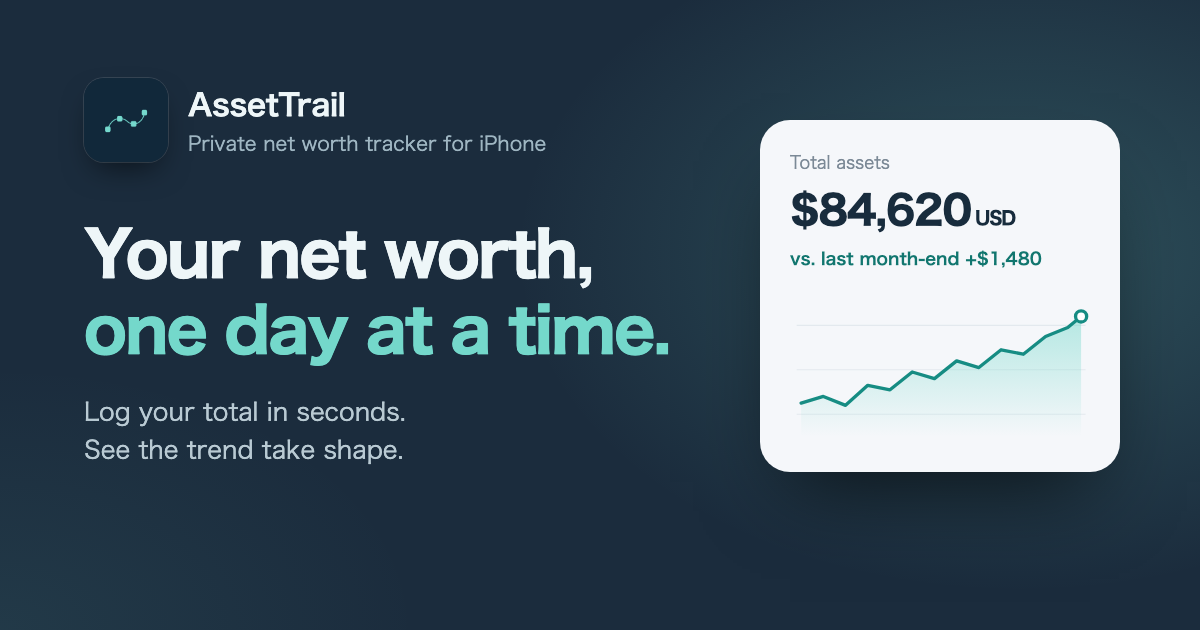
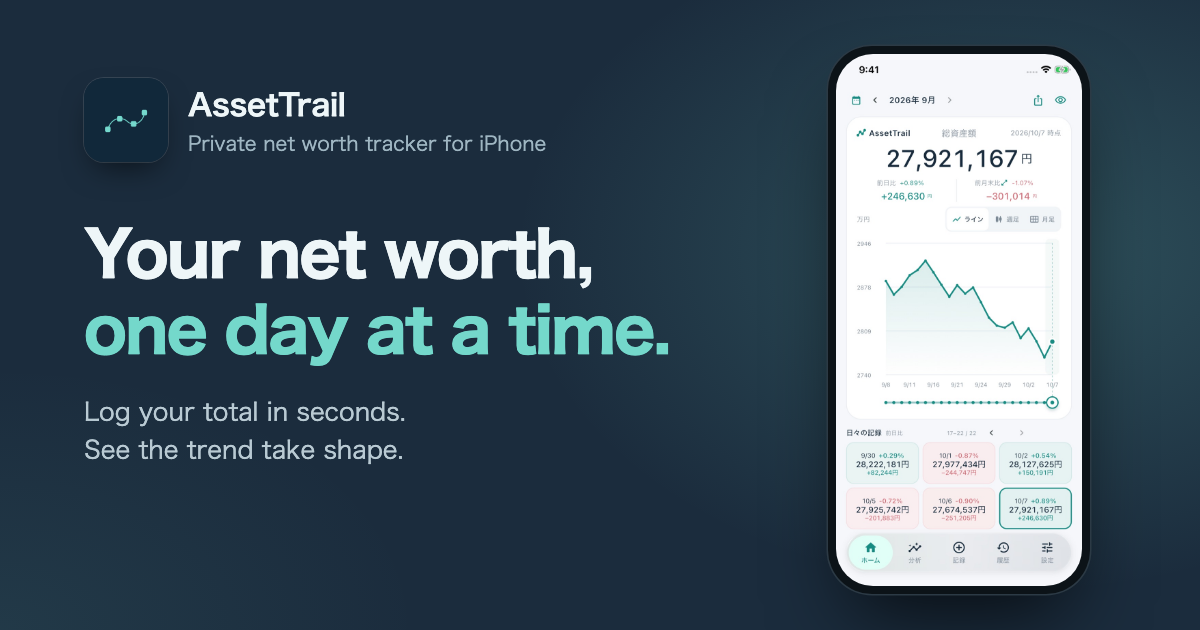
Use real app screenshots on AssetTrail landing pages
- Replace illustrated phone mockups with actual iPhone screenshots
  (line / weekly / monthly views, year-to-date, up & down days)
- Regenerate OGP images with the real home screen
- Mention year-to-date change in the insights feature
- Remove unused mockup styles

Changed region(s): [[0.6167, 0.0603, 0.9558, 0.9651]]

diff --git a/asset_trail/index.html b/asset_trail/index.html
@@ -87,28 +87,7 @@
         </div>
 
         <div class="stage">
-          <div class="phone" role="img" aria-label="AssetTrailのホーム画面イメージ。総資産額、前日比、資産推移のグラフ、日々の記録カードが表示されている">
-            <div class="screen" aria-hidden="true">
-              <div class="s-bar"><span class="s-title">AssetTrail</span><span class="s-icons"><i></i><i></i></span></div>
-              <div class="card">
-                <div class="label">総資産額 · 10月9日</div>
-                <div class="amount num">12,486,300<small>円</small></div>
-                <div class="delta"><span>前日比<b class="num">+32,400円</b></span><span>前月末比<b class="num">+214,800円</b></span></div>
-                <div class="seg"><span class="on">ライン</span><span>週足</span><span>月足</span></div>
-                <svg class="chart" viewBox="0 0 260 112" role="presentation">
-                  <defs><linearGradient id="ga" x1="0" y1="0" x2="0" y2="1"><stop offset="0" stop-color="#74d8cb" stop-opacity=".45"/><stop offset="1" stop-color="#74d8cb" stop-opacity="0"/></linearGradient></defs>
-                  <line class="grid" x1="0" y1="28" x2="260" y2="28"/><line class="grid" x1="0" y1="62" x2="260" y2="62"/><line class="grid" x1="0" y1="96" x2="260" y2="96"/>
-                  <path d="M4 86 L24 80 L44 88 L64 72 L84 76 L104 62 L124 68 L144 54 L164 60 L184 46 L204 50 L224 36 L244 30 L256 22 L256 112 L4 112 Z" fill="url(#ga)"/>
-                  <path class="line" d="M4 86 L24 80 L44 88 L64 72 L84 76 L104 62 L124 68 L144 54 L164 60 L184 46 L204 50 L224 36 L244 30 L256 22"/>
-                  <circle class="dot" cx="256" cy="22" r="4"/>
-                </svg>
-              </div>
-              <div class="rows" style="margin-top:10px">
-                <div class="mini">10/9（木）<b class="num">12,486,300円</b><em class="num">+32,400</em></div>
-                <div class="mini">10/8（水）<b class="num">12,453,900円</b><em class="num">+18,100</em></div>
-              </div>
-            </div>
-          </div>
+          <div class="phone"><img class="shot" src="./images/screens/home-line.jpg" width="720" height="1558" alt="AssetTrailのホーム画面。総資産額と前日比・前月末比、資産推移のライングラフ、日々の記録カードが表示されている" fetchpriority="high" /></div>
         </div>
       </div>
     </section>
@@ -151,7 +130,7 @@
           <article class="feature">
             <span class="ic" aria-hidden="true"><svg viewBox="0 0 24 24" fill="none" stroke="currentColor" stroke-width="2" stroke-linecap="round" stroke-linejoin="round"><path d="M4 20V10M10 20V4M16 20v-7M22 20H2"/></svg></span>
             <h3>分析 <span class="tag">一部Plus</span></h3>
-            <p>下落幅、プラス・マイナスの日数、月別の増減、入出金を除いた増減を表示します。</p>
+            <p>年初来の増減、下落幅、プラス・マイナスの日数、月別の増減、入出金を除いた増減を表示します。</p>
           </article>
           <article class="feature">
             <span class="ic" aria-hidden="true"><svg viewBox="0 0 24 24" fill="none" stroke="currentColor" stroke-width="2" stroke-linecap="round" stroke-linejoin="round"><path d="M3 3l18 18"/><path d="M10.6 5.1A10 10 0 0 1 12 5c5 0 9 4.5 10 7a13 13 0 0 1-2.6 3.6M6.6 6.6A13 13 0 0 0 2 12c1 2.5 5 7 10 7a9.8 9.8 0 0 0 5.4-1.6"/><path d="M9.9 9.9a3 3 0 0 0 4.2 4.2"/></svg></span>
@@ -215,77 +194,37 @@
         <ul class="gallery">
           <li>
             <figure>
-              <div class="phone" role="img" aria-label="ホーム画面イメージ：総資産額と週足のグラフ">
-                <div class="screen" aria-hidden="true">
-                  <div class="s-bar"><span class="s-title">ホーム</span><span class="s-icons"><i></i></span></div>
-                  <div class="card">
-                    <div class="label">総資産額</div>
-                    <div class="amount num">12,486,300<small>円</small></div>
-                    <div class="delta"><span>前週比<b class="num">+96,200円</b></span></div>
-                    <div class="seg"><span>ライン</span><span class="on">週足</span><span>月足</span></div>
-                    <svg class="chart" viewBox="0 0 220 120" role="presentation">
-                      <line class="grid" x1="0" y1="30" x2="220" y2="30"/><line class="grid" x1="0" y1="70" x2="220" y2="70"/><line class="grid" x1="0" y1="110" x2="220" y2="110"/>
-                      <g fill="#74d8cb" stroke="#168c83" stroke-width="1.5">
-                        <line x1="18" y1="70" x2="18" y2="104" /><rect x="11" y="78" width="14" height="20" rx="2"/>
-                        <line x1="52" y1="62" x2="52" y2="96" /><rect x="45" y="68" width="14" height="22" rx="2"/>
-                      </g>
-                      <g fill="#ff929e" stroke="#c4555f" stroke-width="1.5"><line x1="86" y1="60" x2="86" y2="92" /><rect x="79" y="66" width="14" height="18" rx="2"/></g>
-                      <g fill="#74d8cb" stroke="#168c83" stroke-width="1.5">
-                        <line x1="120" y1="44" x2="120" y2="86" /><rect x="113" y="52" width="14" height="28" rx="2"/>
-                        <line x1="154" y1="34" x2="154" y2="64" /><rect x="147" y="40" width="14" height="18" rx="2"/>
-                        <line x1="188" y1="16" x2="188" y2="50" /><rect x="181" y="22" width="14" height="22" rx="2"/>
-                      </g>
-                    </svg>
-                  </div>
-                  <div class="card"><div class="label">10/6 – 10/9</div><b class="num" style="font-size:14px">12,486,300円</b> <span class="num" style="color:var(--teal);font-weight:650">+96,200</span></div>
-                </div>
-              </div>
-              <figcaption><strong>ホーム</strong><span>資産額と推移をひと目で</span></figcaption>
+              <div class="phone"><img class="shot" src="./images/screens/home-line.jpg" width="720" height="1558" alt="ホーム画面のライン表示。総資産額と、日ごとの資産推移のグラフ、日々の記録カード" loading="lazy" decoding="async" /></div>
+              <figcaption><strong>ライン</strong><span>日々の推移を、なめらかな線で</span></figcaption>
             </figure>
           </li>
           <li>
             <figure>
-              <div class="phone" role="img" aria-label="分析画面イメージ：月別の増減バーと、プラス・マイナスの日数の円グラフ">
-                <div class="screen" aria-hidden="true">
-                  <div class="s-bar"><span class="s-title">分析</span></div>
-                  <div class="card">
-                    <div class="label">月別の増減</div>
-                    <div class="bars-wrap"><div class="bars"><span style="height:24px"></span><span style="height:36px"></span><span class="neg" style="height:18px"></span><span style="height:30px"></span><span style="height:42px"></span><span class="neg" style="height:10px"></span><span style="height:28px"></span></div></div>
-                  </div>
-                  <div class="card">
-                    <div class="label" style="margin-bottom:8px">増減の日数</div>
-                    <div class="donut">
-                      <svg viewBox="0 0 42 42"><circle cx="21" cy="21" r="15.9" fill="none" stroke="var(--raised)" stroke-width="6"/><circle cx="21" cy="21" r="15.9" fill="none" stroke="#168c83" stroke-width="6" stroke-dasharray="60 40" stroke-dashoffset="25"/><circle cx="21" cy="21" r="15.9" fill="none" stroke="#e58b94" stroke-width="6" stroke-dasharray="30 70" stroke-dashoffset="65"/></svg>
-                      <div class="legend"><span><i style="background:#168c83"></i>プラス <b>18日</b></span><span><i style="background:#e58b94"></i>マイナス <b>9日</b></span><span><i style="background:var(--border)"></i>変化なし <b>3日</b></span></div>
-                    </div>
-                  </div>
-                  <div class="card"><div class="label">最大下落幅</div><b class="num" style="font-size:18px;color:var(--negative)">-4.2%</b></div>
-                </div>
-              </div>
-              <figcaption><strong>分析</strong><span>月ごとの増減や下落幅を確認</span></figcaption>
+              <div class="phone"><img class="shot" src="./images/screens/home-weekly.jpg" width="720" height="1558" alt="ホーム画面の週足表示。週ごとのローソク足チャートと、前週比つきの週ごとの記録" loading="lazy" decoding="async" /></div>
+              <figcaption><strong>週足</strong><span>週ごとの値動きをローソク足で</span></figcaption>
             </figure>
           </li>
           <li>
             <figure>
-              <div class="phone" role="img" aria-label="記録画面イメージ：日付、資産額、入出金、メモを入力して保存するシート">
-                <div class="screen" aria-hidden="true" style="background:var(--bg-alt)">
-                  <div class="card" style="margin-top:40px;border-radius:22px">
-                    <div class="sheet-handle"></div>
-                    <div style="font-weight:800;font-size:15px;margin-bottom:10px">記録</div>
-                    <div class="field"><div class="label">日付</div><div class="v">2026年10月9日</div></div>
-                    <div class="field"><div class="label">資産額</div><div class="v num">12,486,300 円</div></div>
-                    <div class="field"><div class="label">入出金</div><div class="toggle"><span class="on">入金</span><span>出金</span></div><div class="v num" style="margin-top:6px">50,000 円</div></div>
-                    <div class="field"><div class="label">メモ</div><div class="v" style="font-weight:500;font-size:13px">積立を追加</div></div>
-                    <div class="save">保存</div>
-                  </div>
-                </div>
-              </div>
-              <figcaption><strong>記録</strong><span>資産額を入れて保存するだけ</span></figcaption>
+              <div class="phone"><img class="shot" src="./images/screens/home-monthly.jpg" width="720" height="1558" alt="ホーム画面の月足表示。直近1年の月ごとのローソク足チャートと、前月比つきの月ごとの記録" loading="lazy" decoding="async" /></div>
+              <figcaption><strong>月足 <span class="tag">Plus</span></strong><span>1年の流れを月単位で</span></figcaption>
+            </figure>
+          </li>
+          <li>
+            <figure>
+              <div class="phone"><img class="shot" src="./images/screens/analysis-ytd.jpg" width="720" height="1558" alt="分析画面の年初来パフォーマンス。年初からの資産額の変化を金額・比率・グラフで表示" loading="lazy" decoding="async" /></div>
+              <figcaption><strong>年初来パフォーマンス</strong><span>年初からの増減を金額と比率で</span></figcaption>
+            </figure>
+          </li>
+          <li>
+            <figure>
+              <div class="phone"><img class="shot" src="./images/screens/analysis-days.jpg" width="720" height="1558" alt="分析画面のプラス・マイナス日数。増減日数の円グラフと、日ごとの増減を色分けしたカレンダー" loading="lazy" decoding="async" /></div>
+              <figcaption><strong>プラス・マイナス日数 <span class="tag">Plus</span></strong><span>増減の日数をカレンダーでも</span></figcaption>
             </figure>
           </li>
         </ul>
         <p class="swipe-hint">← 横にスワイプ →</p>
-        <p class="footnote">※ 画面はイメージです。金額はサンプルです。</p>
+        <p class="footnote">※ 実際のアプリ画面です（iPhone）。</p>
       </div>
     </section>
 

diff --git a/asset_trail/en/index.html b/asset_trail/en/index.html
@@ -87,28 +87,7 @@
         </div>
 
         <div class="stage">
-          <div class="phone" role="img" aria-label="AssetTrail home screen preview showing total assets, daily change, a trend chart, and recent entries">
-            <div class="screen" aria-hidden="true">
-              <div class="s-bar"><span class="s-title">AssetTrail</span><span class="s-icons"><i></i><i></i></span></div>
-              <div class="card">
-                <div class="label">Total assets · Oct 9</div>
-                <div class="amount num">$84,620<small>USD</small></div>
-                <div class="delta"><span>vs. yesterday<b class="num">+$310</b></span><span>vs. last month-end<b class="num">+$1,480</b></span></div>
-                <div class="seg"><span class="on">Line</span><span>Weekly</span><span>Monthly</span></div>
-                <svg class="chart" viewBox="0 0 260 112" role="presentation">
-                  <defs><linearGradient id="ga" x1="0" y1="0" x2="0" y2="1"><stop offset="0" stop-color="#74d8cb" stop-opacity=".45"/><stop offset="1" stop-color="#74d8cb" stop-opacity="0"/></linearGradient></defs>
-                  <line class="grid" x1="0" y1="28" x2="260" y2="28"/><line class="grid" x1="0" y1="62" x2="260" y2="62"/><line class="grid" x1="0" y1="96" x2="260" y2="96"/>
-                  <path d="M4 86 L24 80 L44 88 L64 72 L84 76 L104 62 L124 68 L144 54 L164 60 L184 46 L204 50 L224 36 L244 30 L256 22 L256 112 L4 112 Z" fill="url(#ga)"/>
-                  <path class="line" d="M4 86 L24 80 L44 88 L64 72 L84 76 L104 62 L124 68 L144 54 L164 60 L184 46 L204 50 L224 36 L244 30 L256 22"/>
-                  <circle class="dot" cx="256" cy="22" r="4"/>
-                </svg>
-              </div>
-              <div class="rows" style="margin-top:10px">
-                <div class="mini">Thu, Oct 9<b class="num">$84,620</b><em class="num">+$310</em></div>
-                <div class="mini">Wed, Oct 8<b class="num">$84,310</b><em class="num">+$145</em></div>
-              </div>
-            </div>
-          </div>
+          <div class="phone"><img class="shot" src="../images/screens/home-line.jpg" width="720" height="1558" alt="AssetTrail home screen showing total assets, day-over-day and month-end changes, a line chart of the asset trend, and daily entry cards" fetchpriority="high" /></div>
         </div>
       </div>
     </section>
@@ -151,7 +130,7 @@
           <article class="feature">
             <span class="ic" aria-hidden="true"><svg viewBox="0 0 24 24" fill="none" stroke="currentColor" stroke-width="2" stroke-linecap="round" stroke-linejoin="round"><path d="M4 20V10M10 20V4M16 20v-7M22 20H2"/></svg></span>
             <h3>Insights <span class="tag">Some Plus</span></h3>
-            <p>Drawdowns, up and down days, monthly changes, and changes excluding deposits and withdrawals.</p>
+            <p>Year-to-date change, drawdowns, up and down days, monthly changes, and changes excluding deposits and withdrawals.</p>
           </article>
           <article class="feature">
             <span class="ic" aria-hidden="true"><svg viewBox="0 0 24 24" fill="none" stroke="currentColor" stroke-width="2" stroke-linecap="round" stroke-linejoin="round"><path d="M3 3l18 18"/><path d="M10.6 5.1A10 10 0 0 1 12 5c5 0 9 4.5 10 7a13 13 0 0 1-2.6 3.6M6.6 6.6A13 13 0 0 0 2 12c1 2.5 5 7 10 7a9.8 9.8 0 0 0 5.4-1.6"/><path d="M9.9 9.9a3 3 0 0 0 4.2 4.2"/></svg></span>
@@ -215,77 +194,37 @@
         <ul class="gallery">
           <li>
             <figure>
-              <div class="phone" role="img" aria-label="Home screen preview: total assets with a weekly chart">
-                <div class="screen" aria-hidden="true">
-                  <div class="s-bar"><span class="s-title">Home</span><span class="s-icons"><i></i></span></div>
-                  <div class="card">
-                    <div class="label">Total assets</div>
-                    <div class="amount num">$84,620<small>USD</small></div>
-                    <div class="delta"><span>vs. last week<b class="num">+$720</b></span></div>
-                    <div class="seg"><span>Line</span><span class="on">Weekly</span><span>Monthly</span></div>
-                    <svg class="chart" viewBox="0 0 220 120" role="presentation">
-                      <line class="grid" x1="0" y1="30" x2="220" y2="30"/><line class="grid" x1="0" y1="70" x2="220" y2="70"/><line class="grid" x1="0" y1="110" x2="220" y2="110"/>
-                      <g fill="#74d8cb" stroke="#168c83" stroke-width="1.5">
-                        <line x1="18" y1="70" x2="18" y2="104" /><rect x="11" y="78" width="14" height="20" rx="2"/>
-                        <line x1="52" y1="62" x2="52" y2="96" /><rect x="45" y="68" width="14" height="22" rx="2"/>
-                      </g>
-                      <g fill="#ff929e" stroke="#c4555f" stroke-width="1.5"><line x1="86" y1="60" x2="86" y2="92" /><rect x="79" y="66" width="14" height="18" rx="2"/></g>
-                      <g fill="#74d8cb" stroke="#168c83" stroke-width="1.5">
-                        <line x1="120" y1="44" x2="120" y2="86" /><rect x="113" y="52" width="14" height="28" rx="2"/>
-                        <line x1="154" y1="34" x2="154" y2="64" /><rect x="147" y="40" width="14" height="18" rx="2"/>
-                        <line x1="188" y1="16" x2="188" y2="50" /><rect x="181" y="22" width="14" height="22" rx="2"/>
-                      </g>
-                    </svg>
-                  </div>
-                  <div class="card"><div class="label">Oct 6 – Oct 9</div><b class="num" style="font-size:14px">$84,620</b> <span class="num" style="color:var(--teal);font-weight:650">+$720</span></div>
-                </div>
-              </div>
-              <figcaption><strong>Home</strong><span>Your total and trend at a glance</span></figcaption>
+              <div class="phone"><img class="shot" src="../images/screens/home-line.jpg" width="720" height="1558" alt="Home screen in line view: total assets, a daily trend chart, and daily entry cards" loading="lazy" decoding="async" /></div>
+              <figcaption><strong>Line</strong><span>Your daily trend as a smooth line</span></figcaption>
             </figure>
           </li>
           <li>
             <figure>
-              <div class="phone" role="img" aria-label="Insights screen preview: monthly change bars and a chart of up and down days">
-                <div class="screen" aria-hidden="true">
-                  <div class="s-bar"><span class="s-title">Insights</span></div>
-                  <div class="card">
-                    <div class="label">Monthly change</div>
-                    <div class="bars-wrap"><div class="bars"><span style="height:24px"></span><span style="height:36px"></span><span class="neg" style="height:18px"></span><span style="height:30px"></span><span style="height:42px"></span><span class="neg" style="height:10px"></span><span style="height:28px"></span></div></div>
-                  </div>
-                  <div class="card">
-                    <div class="label" style="margin-bottom:8px">Up &amp; down days</div>
-                    <div class="donut">
-                      <svg viewBox="0 0 42 42"><circle cx="21" cy="21" r="15.9" fill="none" stroke="var(--raised)" stroke-width="6"/><circle cx="21" cy="21" r="15.9" fill="none" stroke="#168c83" stroke-width="6" stroke-dasharray="60 40" stroke-dashoffset="25"/><circle cx="21" cy="21" r="15.9" fill="none" stroke="#e58b94" stroke-width="6" stroke-dasharray="30 70" stroke-dashoffset="65"/></svg>
-                      <div class="legend"><span><i style="background:#168c83"></i>Up <b>18 days</b></span><span><i style="background:#e58b94"></i>Down <b>9 days</b></span><span><i style="background:var(--border)"></i>Flat <b>3 days</b></span></div>
-                    </div>
-                  </div>
-                  <div class="card"><div class="label">Max drawdown</div><b class="num" style="font-size:18px;color:var(--negative)">-4.2%</b></div>
-                </div>
-              </div>
-              <figcaption><strong>Insights</strong><span>Monthly changes and drawdowns</span></figcaption>
+              <div class="phone"><img class="shot" src="../images/screens/home-weekly.jpg" width="720" height="1558" alt="Home screen in weekly view: weekly candlestick chart and weekly entries with week-over-week change" loading="lazy" decoding="async" /></div>
+              <figcaption><strong>Weekly</strong><span>Week-by-week moves as candlesticks</span></figcaption>
             </figure>
           </li>
           <li>
             <figure>
-              <div class="phone" role="img" aria-label="New entry screen preview: a sheet for date, total assets, cash flow, and a note">
-                <div class="screen" aria-hidden="true" style="background:var(--bg-alt)">
-                  <div class="card" style="margin-top:40px;border-radius:22px">
-                    <div class="sheet-handle"></div>
-                    <div style="font-weight:800;font-size:15px;margin-bottom:10px">New entry</div>
-                    <div class="field"><div class="label">Date</div><div class="v">Oct 9, 2026</div></div>
-                    <div class="field"><div class="label">Total assets</div><div class="v num">$84,620</div></div>
-                    <div class="field"><div class="label">Cash flow</div><div class="toggle"><span class="on">Deposit</span><span>Withdrawal</span></div><div class="v num" style="margin-top:6px">$500</div></div>
-                    <div class="field"><div class="label">Note</div><div class="v" style="font-weight:500;font-size:13px">Monthly contribution</div></div>
-                    <div class="save">Save</div>
-                  </div>
-                </div>
-              </div>
-              <figcaption><strong>New entry</strong><span>Enter your total and you're done</span></figcaption>
+              <div class="phone"><img class="shot" src="../images/screens/home-monthly.jpg" width="720" height="1558" alt="Home screen in monthly view: monthly candlestick chart for the past year and monthly entries" loading="lazy" decoding="async" /></div>
+              <figcaption><strong>Monthly <span class="tag">Plus</span></strong><span>A full year at a glance</span></figcaption>
+            </figure>
+          </li>
+          <li>
+            <figure>
+              <div class="phone"><img class="shot" src="../images/screens/analysis-ytd.jpg" width="720" height="1558" alt="Insights screen: year-to-date change in amount and percentage, with a chart" loading="lazy" decoding="async" /></div>
+              <figcaption><strong>Year to date</strong><span>Your change since January 1</span></figcaption>
+            </figure>
+          </li>
+          <li>
+            <figure>
+              <div class="phone"><img class="shot" src="../images/screens/analysis-days.jpg" width="720" height="1558" alt="Insights screen: donut chart of up and down days and a color-coded calendar of daily changes" loading="lazy" decoding="async" /></div>
+              <figcaption><strong>Up & down days <span class="tag">Plus</span></strong><span>Plus a color-coded calendar</span></figcaption>
             </figure>
           </li>
         </ul>
         <p class="swipe-hint">← Swipe to see more →</p>
-        <p class="footnote">Screens are illustrative. Amounts are sample data.</p>
+        <p class="footnote">Real app screens on iPhone, shown in Japanese. The app is fully available in English, too.</p>
       </div>
     </section>
 

diff --git a/asset_trail/lp.css b/asset_trail/lp.css
@@ -119,43 +119,11 @@ a:focus-visible, button:focus-visible {
   filter: blur(10px);
 }
 .phone {
-  position: relative; width: 292px; flex: none;
-  padding: 10px; border-radius: 48px;
+  position: relative; width: 280px; flex: none;
+  padding: 8px; border-radius: 46px;
   background: #0c1318; box-shadow: var(--shadow), inset 0 0 0 1.5px #2c3a45;
 }
-.screen {
-  position: relative; overflow: hidden; border-radius: 39px;
-  background: var(--bg); color: var(--ink);
-  padding: 46px 16px 22px;
-  font-size: 12px; line-height: 1.45;
-}
-.screen::before {
-  content: ""; position: absolute; top: 11px; left: 50%; width: 86px; height: 25px;
-  transform: translateX(-50%); border-radius: 20px; background: #0c1318;
-}
-.s-bar { display: flex; align-items: center; justify-content: space-between; margin-bottom: 12px; }
-.s-title { font-size: 17px; font-weight: 800; letter-spacing: -.02em; }
-.s-icons { display: flex; gap: 8px; color: var(--teal-strong); }
-.s-icons i { display: block; width: 18px; height: 18px; border-radius: 6px; background: var(--teal-soft); }
-.card { padding: 14px; border-radius: 18px; background: var(--surface); border: 1px solid var(--border); }
-.card + .card { margin-top: 10px; }
-.label { color: var(--subtle); font-size: 11px; }
-.amount { margin-top: 2px; font-size: 25px; font-weight: 750; letter-spacing: -.03em; line-height: 1.2; }
-.amount small { font-size: 12px; font-weight: 650; margin-left: 2px; }
-.delta { display: flex; gap: 14px; margin-top: 8px; font-size: 11px; color: var(--subtle); }
-.delta b { display: block; color: var(--teal); font-size: 13px; }
-.delta b.neg { color: var(--negative); }
-.seg { display: flex; gap: 3px; margin: 12px 0 8px; padding: 3px; border-radius: 10px; background: var(--raised); font-size: 11px; font-weight: 650; text-align: center; color: var(--subtle); }
-.seg span { flex: 1; padding: 4px 0; border-radius: 8px; }
-.seg .on { background: var(--surface); color: var(--ink); box-shadow: 0 1px 2px rgba(0,0,0,.1); }
-.chart { width: 100%; height: auto; }
-.chart .line { fill: none; stroke: var(--teal-strong); stroke-width: 2.4; stroke-linejoin: round; stroke-linecap: round; }
-.chart .grid { stroke: var(--border); stroke-width: 1; }
-.chart .dot { fill: var(--surface); stroke: var(--teal-strong); stroke-width: 2.4; }
-.rows { display: flex; gap: 8px; overflow: hidden; }
-.mini { flex: 0 0 46%; padding: 10px 11px; border-radius: 14px; background: var(--surface); border: 1px solid var(--border); font-size: 10.5px; color: var(--subtle); }
-.mini b { display: block; color: var(--ink); font-size: 12px; letter-spacing: -.02em; white-space: nowrap; }
-.mini em { font-style: normal; color: var(--teal); font-weight: 650; }
+.shot { width: 100%; height: auto; border-radius: 38px; background: #f5f7fa; }
 
 /* Sections */
 section { scroll-margin-top: 72px; }
@@ -190,38 +158,18 @@ section { scroll-margin-top: 72px; }
 
 /* Screens gallery */
 .gallery {
-  display: flex; gap: 22px; margin: 0 -16px; padding: 6px 16px 26px;
+  display: flex; gap: 20px; margin: 0 -16px; padding: 6px 16px 26px;
   overflow-x: auto; scroll-snap-type: x mandatory; scrollbar-width: none; list-style: none;
 }
 .gallery::-webkit-scrollbar { display: none; }
 .gallery li { scroll-snap-align: center; flex: none; }
-.gallery .phone { width: 248px; border-radius: 42px; padding: 9px; }
-.gallery .screen { border-radius: 34px; padding-top: 42px; height: 470px; }
+.gallery .phone { width: 232px; border-radius: 40px; padding: 7px; }
+.gallery .shot { border-radius: 33px; }
 .gallery figcaption { margin-top: 16px; text-align: center; }
-.gallery figcaption strong { display: block; font-size: 16px; }
+.gallery figcaption strong { display: flex; justify-content: center; align-items: center; gap: 8px; font-size: 16px; }
 .gallery figcaption span { color: var(--muted); font-size: 14px; }
 .gallery figure { margin: 0; }
 .swipe-hint { margin: 0; color: var(--subtle); font-size: 13px; text-align: center; }
-.bars { display: flex; align-items: center; gap: 6px; height: 96px; padding: 0 2px; }
-.bars span { flex: 1; border-radius: 4px; background: var(--teal-strong); align-self: flex-end; margin-bottom: 48px; }
-.bars span.neg { background: var(--negative); align-self: flex-start; margin: 48px 0 0; opacity: .85; }
-.bars-wrap { position: relative; }
-.bars-wrap::after { content: ""; position: absolute; left: 0; right: 0; top: 48px; border-top: 1px solid var(--border); }
-.donut { display: flex; align-items: center; gap: 14px; }
-.donut svg { width: 76px; height: 76px; flex: none; }
-.legend { display: grid; gap: 3px; font-size: 11px; color: var(--subtle); }
-.legend b { color: var(--ink); }
-.legend i { display: inline-block; width: 8px; height: 8px; margin-right: 6px; border-radius: 3px; vertical-align: 0; }
-.field { padding: 10px 12px; border-radius: 12px; background: var(--raised); }
-.field + .field { margin-top: 8px; }
-.field .v { font-size: 15px; font-weight: 650; }
-.toggle { display: flex; gap: 6px; margin-top: 6px; }
-.toggle span { flex: 1; padding: 4px; border-radius: 8px; background: var(--surface); text-align: center; font-size: 11px; font-weight: 650; color: var(--subtle); }
-.toggle .on { background: var(--teal-strong); color: #fff; }
-@media (prefers-color-scheme: dark) { .toggle .on { color: #0e151b; } }
-.save { margin-top: 12px; padding: 10px; border-radius: 12px; background: var(--teal-strong); color: #fff; text-align: center; font-weight: 750; }
-@media (prefers-color-scheme: dark) { .save { color: #0e151b; } }
-.sheet-handle { width: 36px; height: 4px; margin: 0 auto 12px; border-radius: 4px; background: var(--border); }
 
 /* Trust */
 .trust-grid { display: grid; gap: 12px; }
@@ -258,17 +206,22 @@ section { scroll-margin-top: 72px; }
   .wrap { width: min(100% - 64px, 1080px); }
   .steps, .scenes, .trust-grid { grid-template-columns: repeat(2, 1fr); }
   .features { grid-template-columns: repeat(2, 1fr); }
-  .gallery { justify-content: center; margin: 0; padding-inline: 0; overflow: visible; }
-  .swipe-hint { display: none; }
+  .gallery { margin-inline: -32px; padding-inline: 32px; }
   .section { padding: 100px 0; }
 }
 @media (min-width: 960px) {
   .hero { padding: 64px 0 48px; }
   .hero .wrap { grid-template-columns: 1.1fr .9fr; gap: 56px; }
-  .phone { width: 312px; }
+  .phone { width: 300px; }
   .steps { grid-template-columns: repeat(3, 1fr); }
   .features { grid-template-columns: repeat(3, 1fr); }
   .scenes, .trust-grid { grid-template-columns: repeat(4, 1fr); }
   .final-card { padding: 64px 40px; }
   .site-footer .wrap { grid-template-columns: 1fr auto; align-items: center; }
+}
+@media (min-width: 1100px) {
+  .gallery { justify-content: center; margin-inline: 0; padding-inline: 0; overflow: visible; }
+  .gallery .phone { width: 196px; border-radius: 34px; padding: 6px; }
+  .gallery .shot { border-radius: 28px; }
+  .swipe-hint { display: none; }
 }
